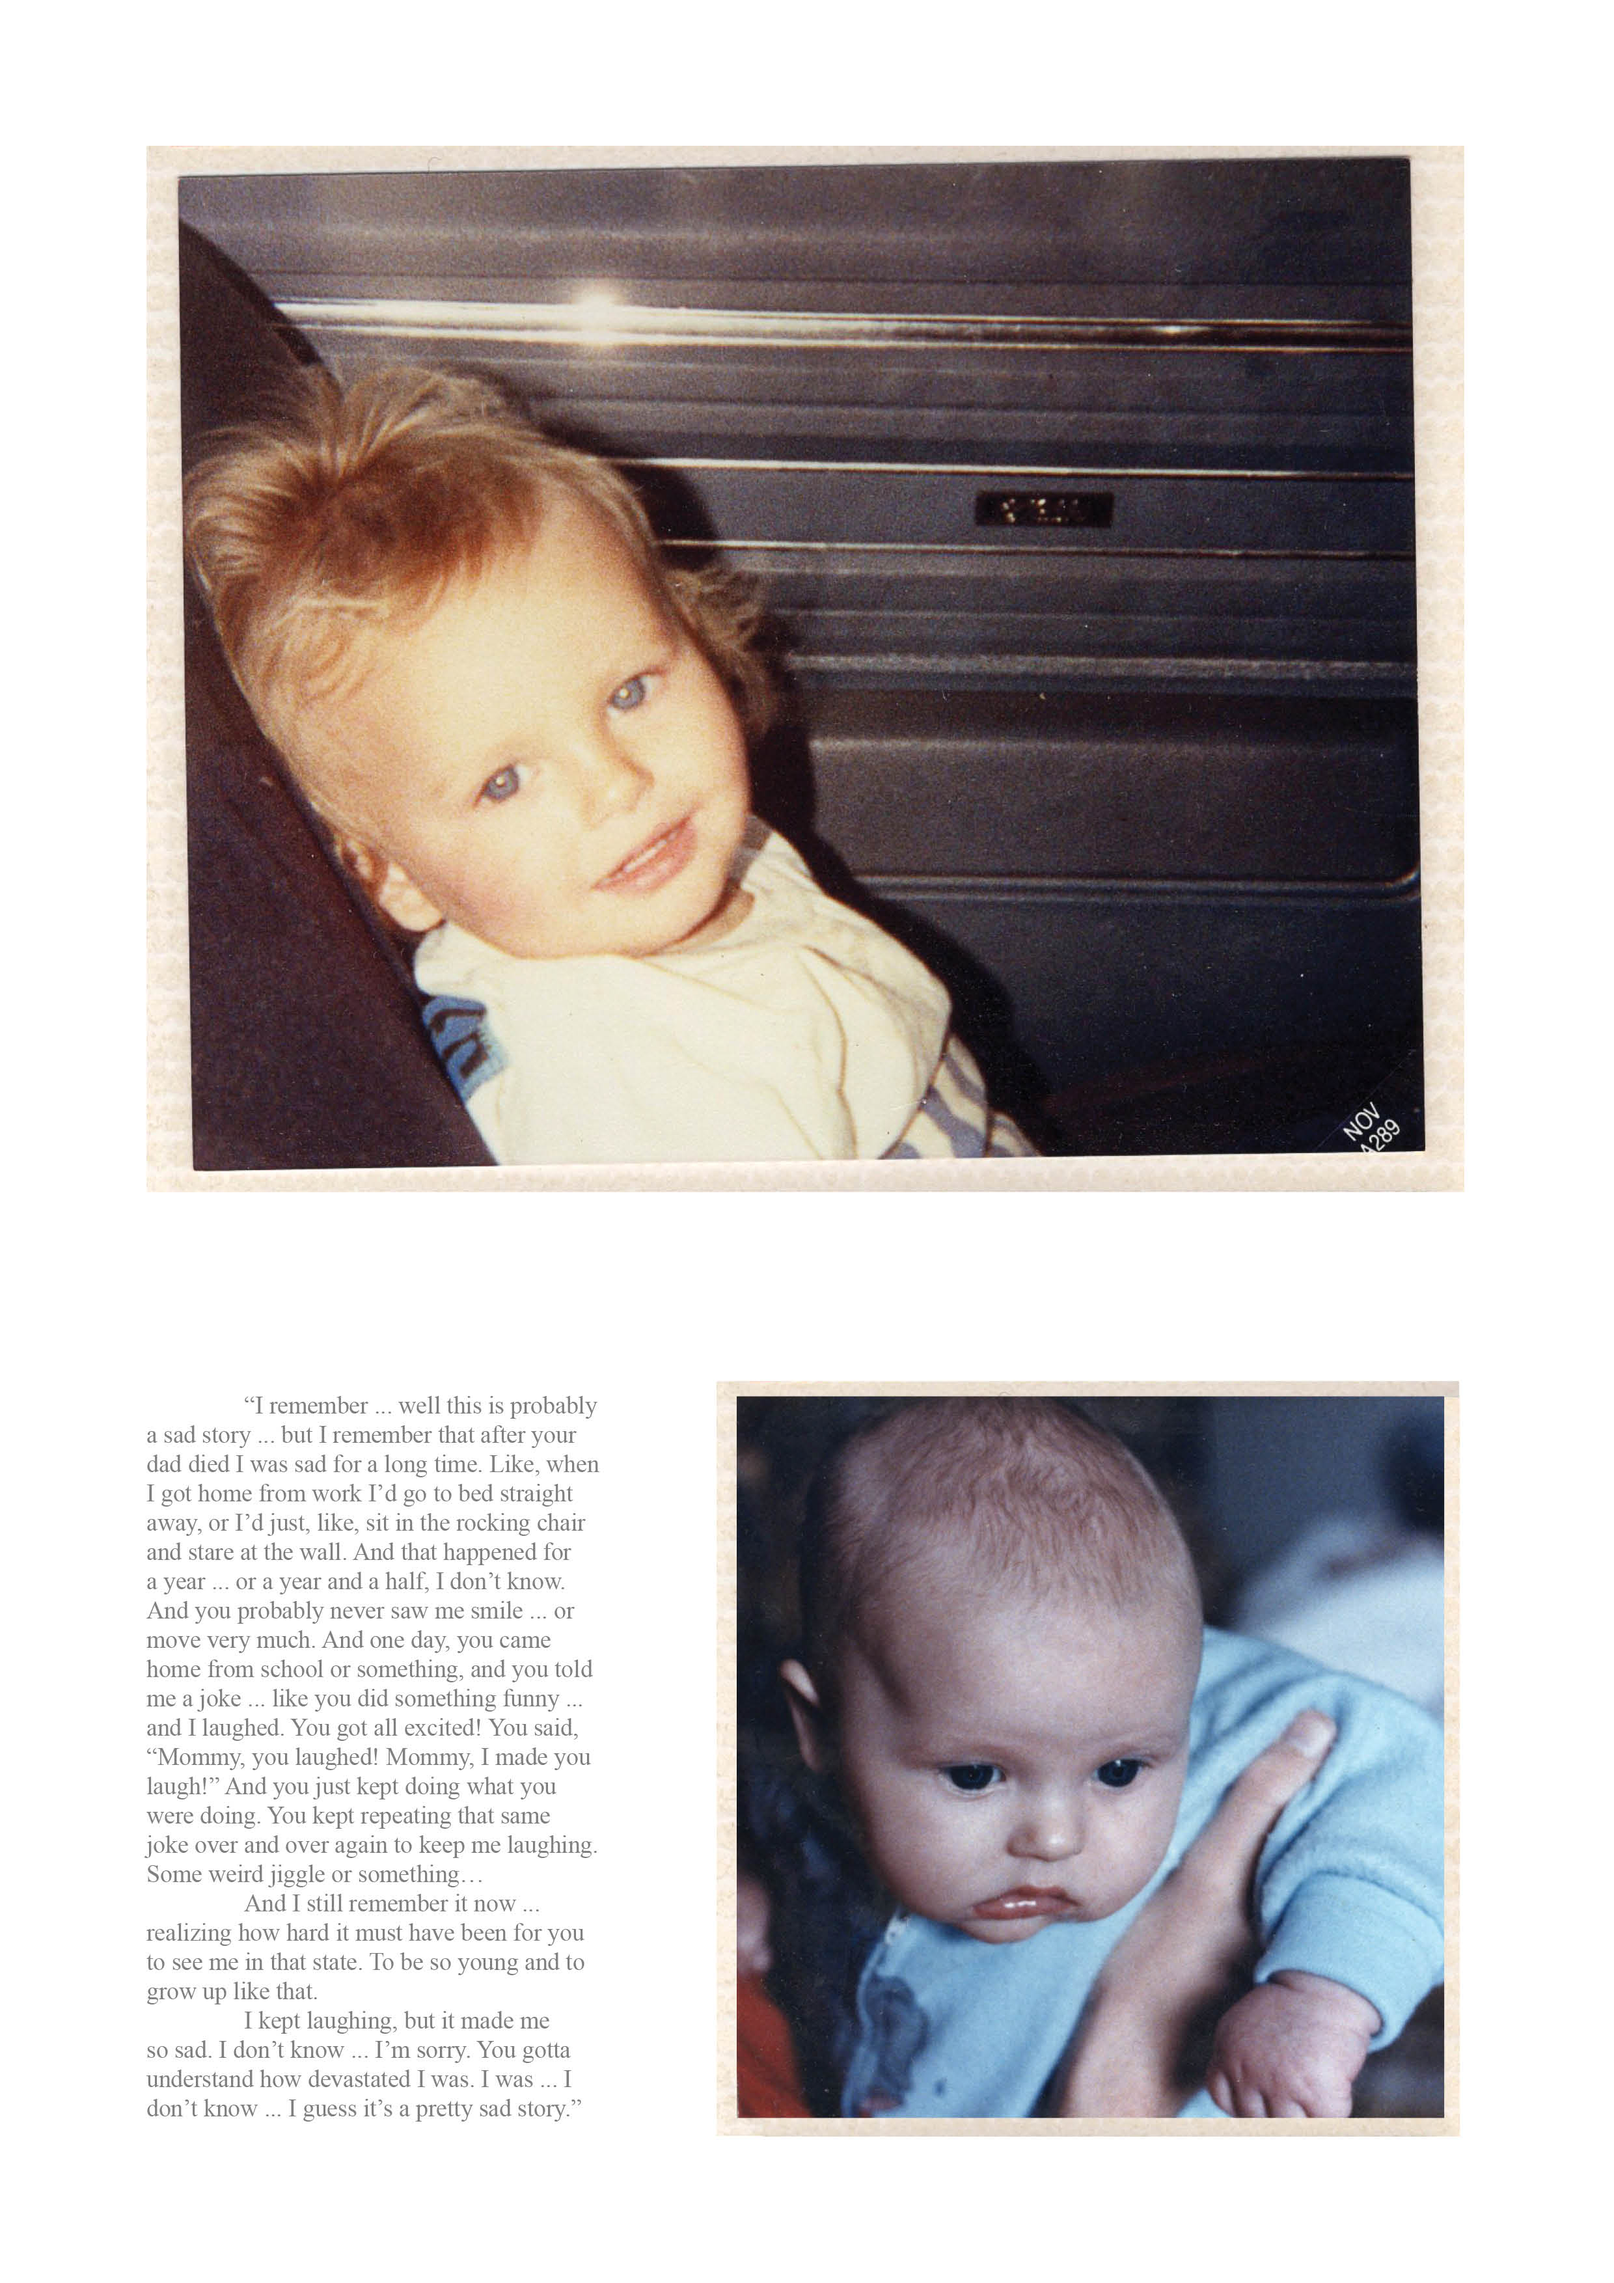
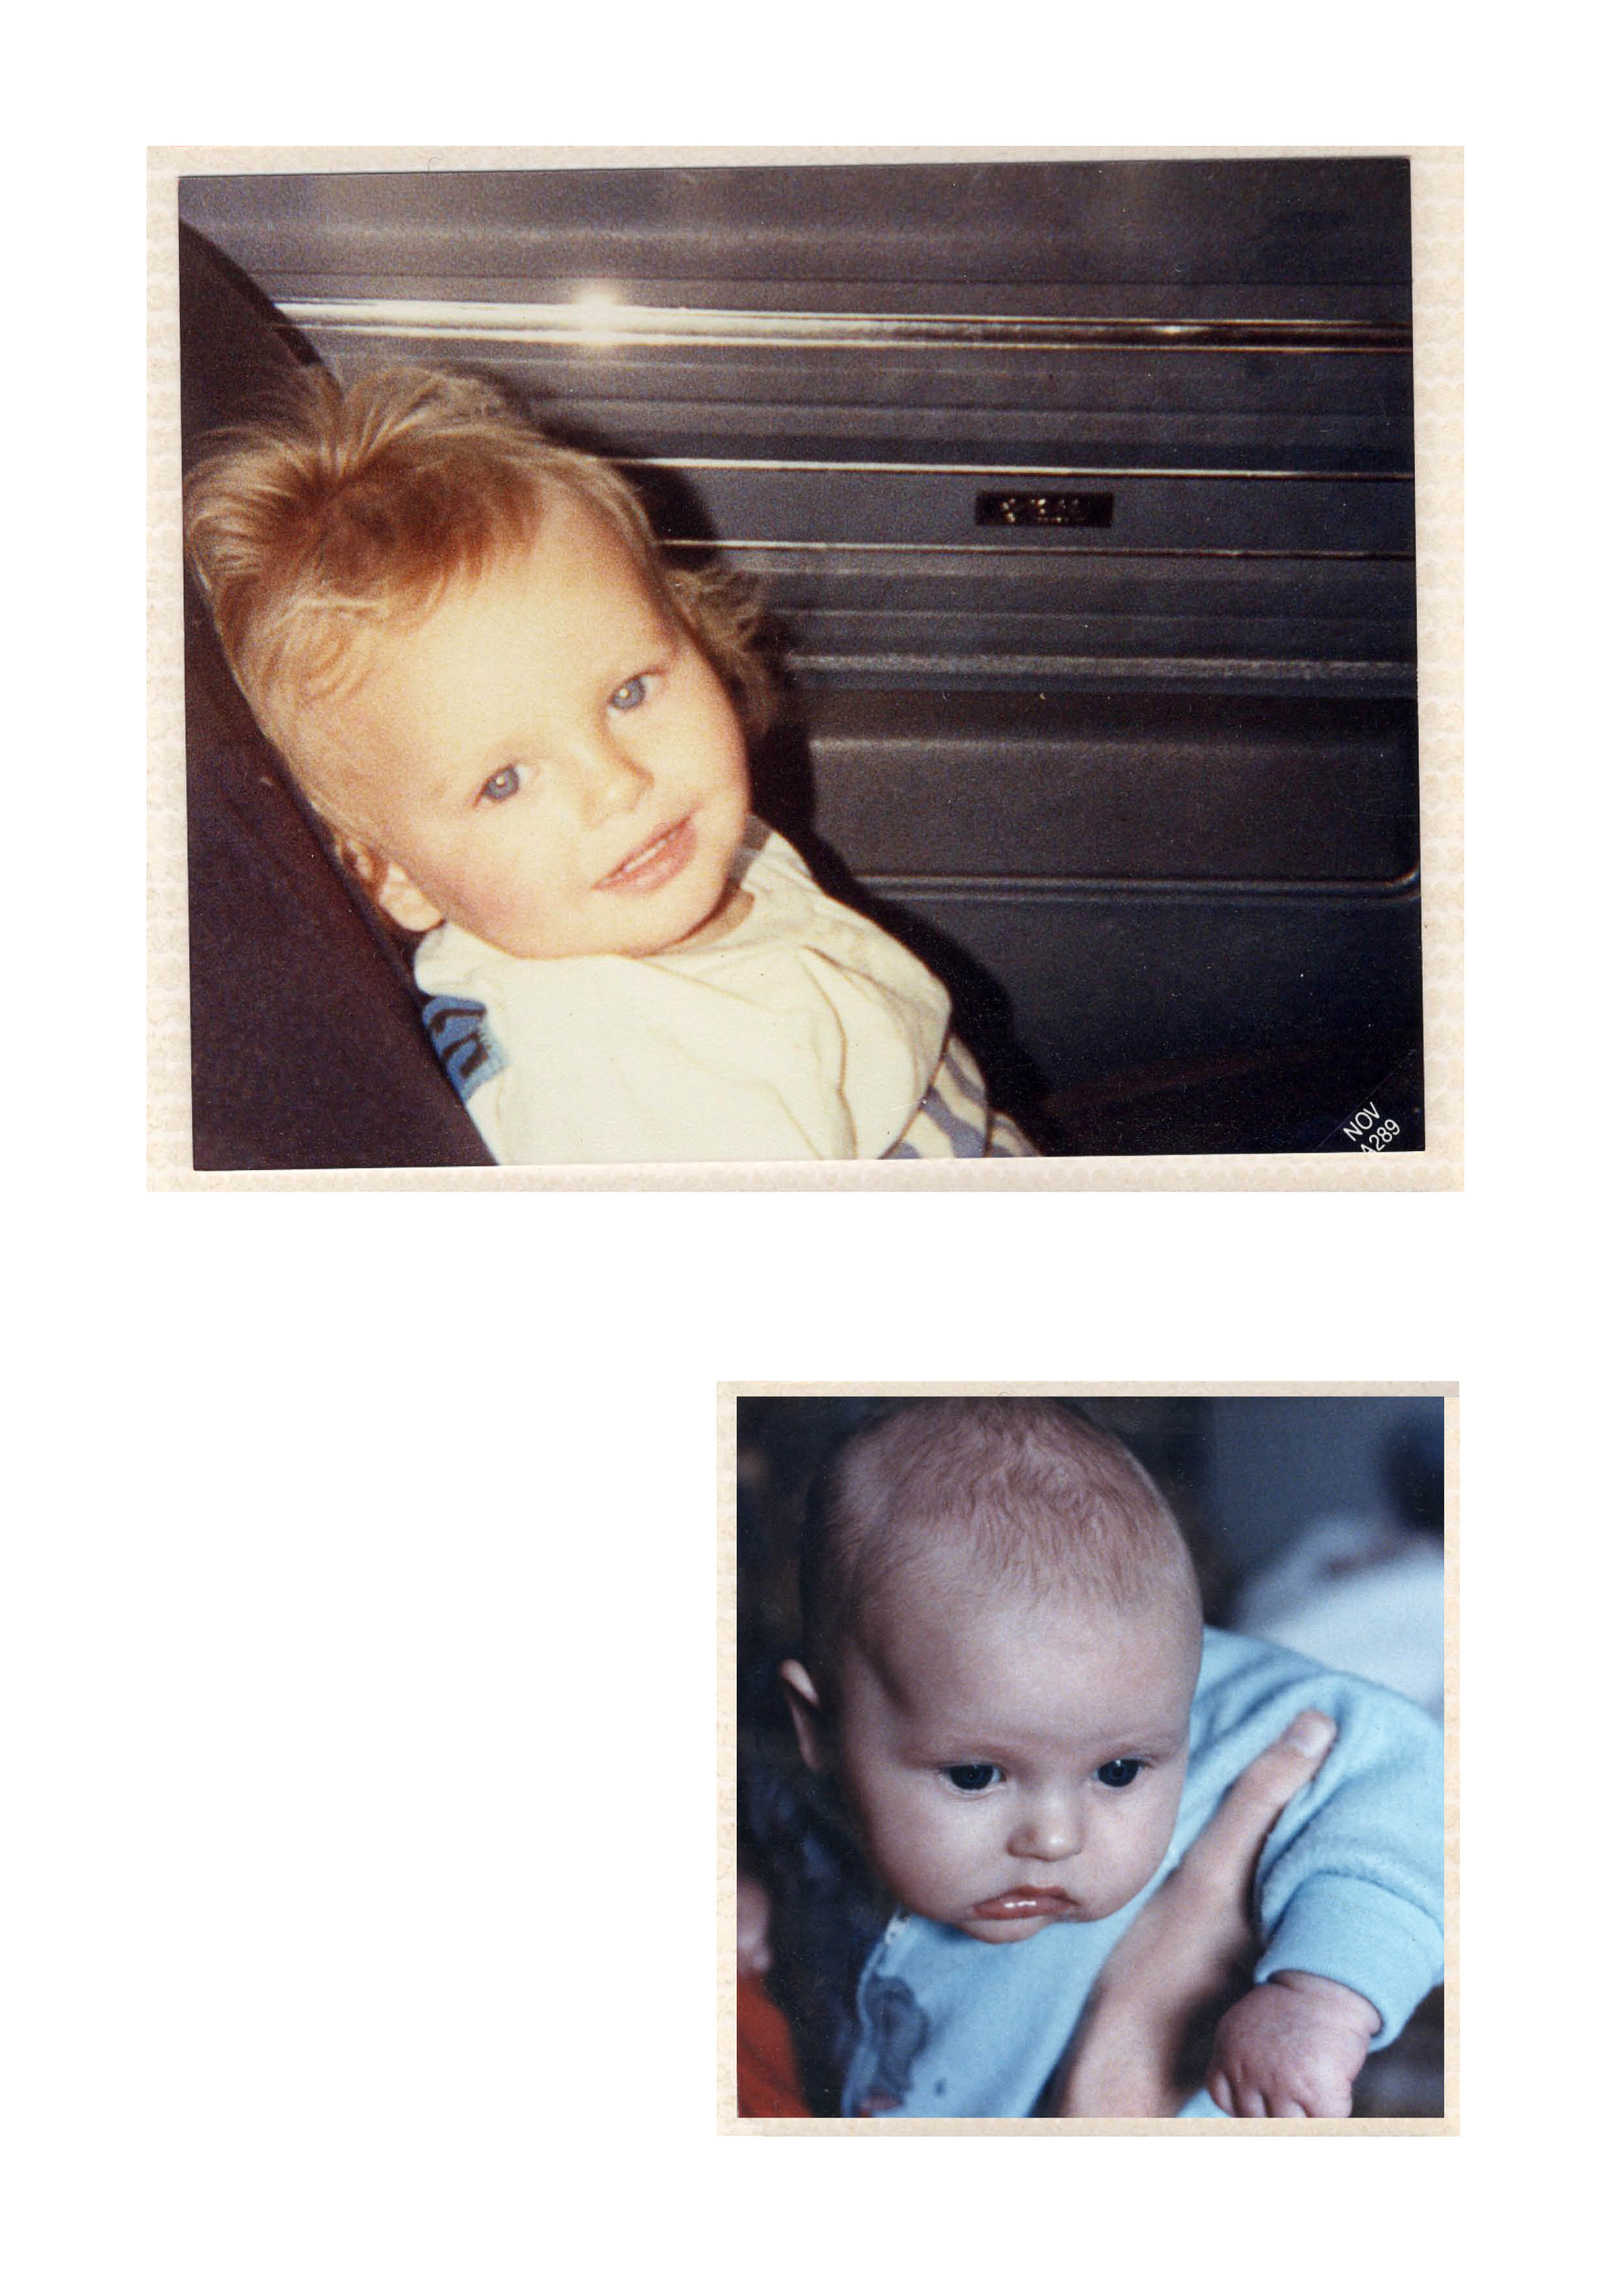
Fixed incorrect index update. Added pages to magazine.

Changed region(s): [[0.0931, 0.6214, 0.3726, 0.9322]]

diff --git a/index.html b/index.html
@@ -3,111 +3,84 @@
 <head>
     <meta charset="UTF-8">
     <meta name="viewport" content="width=device-width, initial-scale=1.0">
-    <title>Transcend - An Interactive Magazine</title>
-    <link rel="stylesheet" href="css/main.css">
-    <link rel="stylesheet" href="css/magazine-flip.css">
+    <title>Dylan Forsberg</title>
+    <link rel="stylesheet" href="/css/style.css">
+    <link rel="stylesheet" href="https://fonts.googleapis.com/css2?family=Cormorant+Garamond:wght@300;400&display=swap">
+    <!-- Netlify Identity Widget -->
+    <script src="https://identity.netlify.com/v1/netlify-identity-widget.js"></script>
 </head>
 <body>
-    <div id="app" class="app-container">
-        <!-- Loading Screen -->
-        <div id="loader" class="loader active">
-            <div class="loader-text">Loading...</div>
-        </div>
-
-        <!-- Magazine View -->
-        <div id="magazine-view" class="magazine-view active">
-            <!-- Debug button - remove after testing -->
-            <button onclick="triggerDissolution()" style="position: fixed; top: 10px; right: 10px; z-index: 9999; padding: 10px; background: orange; color: white; border: none; cursor: pointer;">Test Dissolution</button>
+    <header>
+        <div class="header-container">
+            <h1 class="logo"><a href="/">Dylan Forsberg</a></h1>
             
-            <!-- StPageFlip Container -->
-            <div id="flipbook" class="flipbook-container">
-                <!-- Blank page before everything (for back of page 1 during turn) -->
-                <div class="page">
-                    <div class="page-content empty-page"></div>
-                </div>
-                
-                <!-- Left side empty page for cover spread -->
-                <div class="page">
-                    <div class="page-content empty-page"></div>
-                </div>
-                
-                <!-- Cover (right side of first spread) -->
-                <div class="page">
-                    <div class="page-content">
-                        <img src="assets/magazine/cover.jpg" alt="Transcend Magazine Cover">
-                    </div>
-                </div>
-                
-                <!-- Magazine Pages 1-8 -->
-                <div class="page">
-                    <div class="page-content">
-                        <img src="assets/magazine/page-1.jpg" alt="Page 1">
-                    </div>
-                </div>
-                
-                <div class="page">
-                    <div class="page-content">
-                        <img src="assets/magazine/page-2.jpg" alt="Page 2">
-                    </div>
-                </div>
-                
-                <div class="page">
-                    <div class="page-content">
-                        <img src="assets/magazine/page-3.jpg" alt="Page 3">
-                    </div>
-                </div>
-                
-                <div class="page">
-                    <div class="page-content">
-                        <img src="assets/magazine/page-4.jpg" alt="Page 4">
-                    </div>
-                </div>
-                
-                <div class="page">
-                    <div class="page-content">
-                        <img src="assets/magazine/page-5.jpg" alt="Page 5">
-                    </div>
-                </div>
-                
-                <div class="page">
-                    <div class="page-content">
-                        <img src="assets/magazine/page-6.jpg" alt="Page 6">
-                    </div>
-                </div>
-                
-                <div class="page">
-                    <div class="page-content">
-                        <img src="assets/magazine/page-7.jpg" alt="Page 7">
-                    </div>
-                </div>
-                
-                <!-- Dissolution Trigger Page - LAST PAGE -->
-                <div class="page dissolution-trigger">
-                    <div class="page-content">
-                        <img src="assets/magazine/page-8.jpg" alt="Page 8">
-                        <div class="dissolution-overlay" onclick="console.log('Overlay clicked!'); triggerDissolution()" data-trigger="dissolution"></div>
-                    </div>
-                </div>
+            <!-- Mobile menu toggle -->
+            <div class="menu-toggle" id="mobile-menu">
+                <span class="bar"></span>
+                <span class="bar"></span>
+                <span class="bar"></span>
             </div>
-
-            <!-- Dissolution Effects Container -->
-            <div id="dissolution-container" class="dissolution-container hidden"></div>
-        </div>
-
-        <!-- Exploration View (for after dissolution) -->
-        <div id="exploration-view" class="exploration-view hidden">
-            <div class="phoenix-rise">
-                <h2>✦</h2>
-                <p>TRANSCENDING</p>
+            
+            <nav>
+                <ul class="nav-menu">
+                    <li><a href="/" class="active">Portfolio</a></li>
+                    <li><a href="/transmission">Transmission Magazine</a></li>
+                    <li><a href="/video">Video</a></li>
+                    <li><a href="/landscapes">Landscapes</a></li>
+                    <li><a href="/writing">Writing</a></li>
+                    <li><a href="/info">Info</a></li>
+                </ul>
+            </nav>
+            
+            <div class="social-icons">
+                <a href="https://instagram.com/yourusername" target="_blank" aria-label="Instagram">
+                    <svg xmlns="http://www.w3.org/2000/svg" width="22" height="22" viewBox="0 0 24 24" fill="none" stroke="currentColor" stroke-width="1.5" stroke-linecap="round" stroke-linejoin="round"><rect x="2" y="2" width="20" height="20" rx="5" ry="5"></rect><path d="M16 11.37A4 4 0 1 1 12.63 8 4 4 0 0 1 16 11.37z"></path><line x1="17.5" y1="6.5" x2="17.51" y2="6.5"></line></svg>
+                </a>
+                <a href="https://twitter.com/yourusername" target="_blank" aria-label="Twitter">
+                    <svg xmlns="http://www.w3.org/2000/svg" width="22" height="22" viewBox="0 0 24 24" fill="none" stroke="currentColor" stroke-width="1.5" stroke-linecap="round" stroke-linejoin="round"><path d="M22 4s-.7 2.1-2 3.4c1.6 10-9.4 17.3-18 11.6 2.2.1 4.4-.6 6-2C3 15.5.5 9.6 3 5c2.2 2.6 5.6 4.1 9 4-.9-4.2 4-6.6 7-3.8 1.1 0 3-1.2 3-1.2z"></path></svg>
+                </a>
             </div>
         </div>
-    </div>
+    </header>
 
-    <!-- StPageFlip Library -->
-    <script src="https://unpkg.com/page-flip/dist/js/page-flip.browser.js"></script>
+    <main>
+        <div class="portfolio-grid" id="portfolio-grid">
+            <!-- Images will be loaded dynamically from CMS data -->
+        </div>
+        
+        <!-- Lightbox for viewing images -->
+        <div class="lightbox" id="lightbox">
+            <div class="lightbox-content">
+                <button class="close-lightbox">&times;</button>
+                <img src="" alt="" id="lightbox-img">
+                <div class="lightbox-caption" id="lightbox-caption"></div>
+                <button class="lightbox-prev">&#10094;</button>
+                <button class="lightbox-next">&#10095;</button>
+            </div>
+        </div>
+    </main>
+
+    <footer>
+        <p>&copy; <span id="current-year"></span> Dylan Forsberg. All rights reserved.</p>
+    </footer>
+
+    <script>
+        // Get current year for footer
+        document.getElementById('current-year').textContent = new Date().getFullYear();
+        
+        // Redirect to admin if user is logged in
+        if (window.netlifyIdentity) {
+            window.netlifyIdentity.on("init", user => {
+                if (!user) {
+                    window.netlifyIdentity.on("login", () => {
+                        document.location.href = "/admin/";
+                    });
+                }
+            });
+        }
+    </script>
     
-    <!-- Custom Scripts -->
-    <script src="js/magazine-flip.js"></script>
-    <script src="js/dissolution.js"></script>
+    <script src="/js/main.js"></script>
+    <script src="/js/portfolio.js"></script>
 </body>
 </html>

diff --git a/transcend/index.html b/transcend/index.html
@@ -75,11 +75,35 @@
                         <img src="assets/magazine/page-7.jpg" alt="Page 7">
                     </div>
                 </div>
+
+                <div class="page">
+                    <div class="page-content">
+                        <img src="assets/magazine/page-8.jpg" alt="Page 8">
+                    </div>
+                </div>
+
+                <div class="page">
+                    <div class="page-content">
+                        <img src="assets/magazine/page-9.jpg" alt="Page 9">
+                    </div>
+                </div>
+
+                <div class="page">
+                    <div class="page-content">
+                        <img src="assets/magazine/page-10.jpg" alt="Page 10">
+                    </div>
+                </div>
+
+                <div class="page">
+                    <div class="page-content">
+                        <img src="assets/magazine/page-11.jpg" alt="Page 11">
+                    </div>
+                </div>
                 
                 <!-- Dissolution Trigger Page - LAST PAGE -->
                 <div class="page dissolution-trigger">
                     <div class="page-content">
-                        <img src="assets/magazine/page-8.jpg" alt="Page 8">
+                        <img src="assets/magazine/page-12.jpg" alt="Page 12">
                     </div>
                 </div>
             </div>
